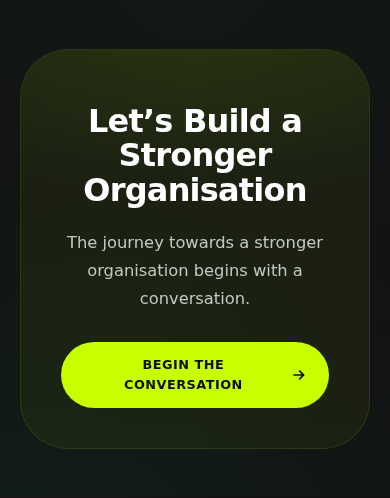
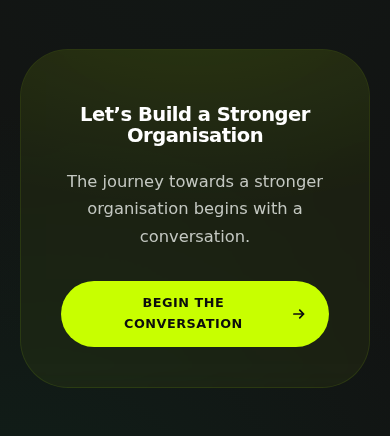
Keep Invite heading within phone scale

Changed region(s): [[0.1538, 0.2087, 0.8615, 0.8349], [0.2154, 0.0894, 0.8, 0.1193]]

diff --git a/src/blocks/Invite.jsx b/src/blocks/Invite.jsx
@@ -93,10 +93,10 @@ export const css = `
 .b-invite-band h2{font-size:clamp(27px,3.5vw,42px)}
 .b-invite-pillband{border-top:1px solid var(--gs-border-soft)}
 
+.b-invite.gs-rhythm h2{font-size:clamp(2rem,4vw,2.75rem);font-weight:800;line-height:1.08;letter-spacing:-.025em}
 /* Phone scale, paired with the hero's mobile floor in Hero.jsx: the statement caps at 27px there, so
    section headings cap at 26px here and the ramp holds at every width (375px 22/19, 640px 27/26). */
-@media(max-width:640px){.b-invite h2{font-size:clamp(19px,5vw,26px)}}
-.b-invite.gs-rhythm h2{font-size:clamp(2rem,4vw,2.75rem);font-weight:800;line-height:1.08;letter-spacing:-.025em}
+@media(max-width:640px){.b-invite.gs-rhythm h2{font-size:clamp(19px,5vw,26px)}}
 `;
 
 export const puck = {

diff --git a/docs/screenshots/GRE-3406/README.md b/docs/screenshots/GRE-3406/README.md
@@ -6,6 +6,8 @@ The home and DX Consultancy page captures are at 1440px and 390px. The after cap
 
 The motion-on marquee frames are [1440px](after-LogoWall-motion-1440.png) and [390px](after-LogoWall-motion-390.png). Browser checks confirmed `running` normally and `paused` on hover and keyboard focus at both sizes. The plain stat count-up reached its target on first view at both sizes.
 
+The Invite 390px after capture was retaken after Keystone's phone review. Chromium computed its heading at 19.5px, within the 26px phone cap.
+
 | Block | Surface | 1440px | 390px |
 | --- | --- | --- | --- |
 | Hero | Dark | [Before](before-Hero-1440.png) · [After](after-Hero-1440.png) | [Before](before-Hero-390.png) · [After](after-Hero-390.png) |
